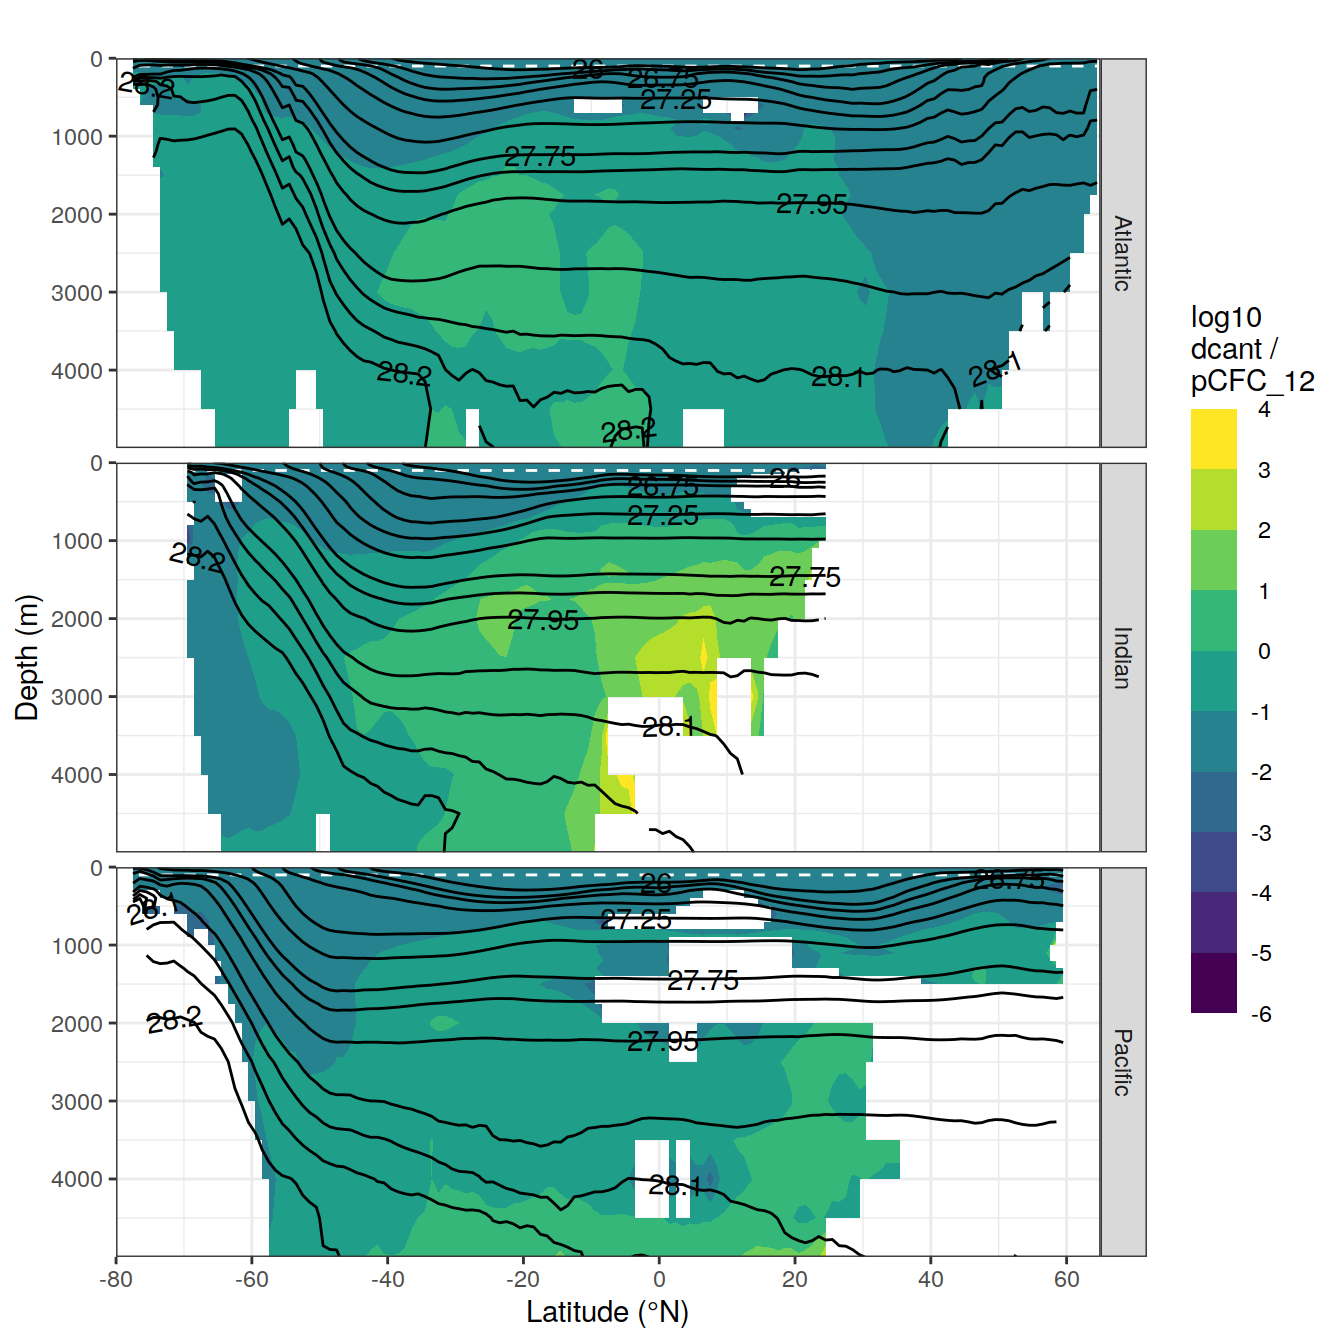
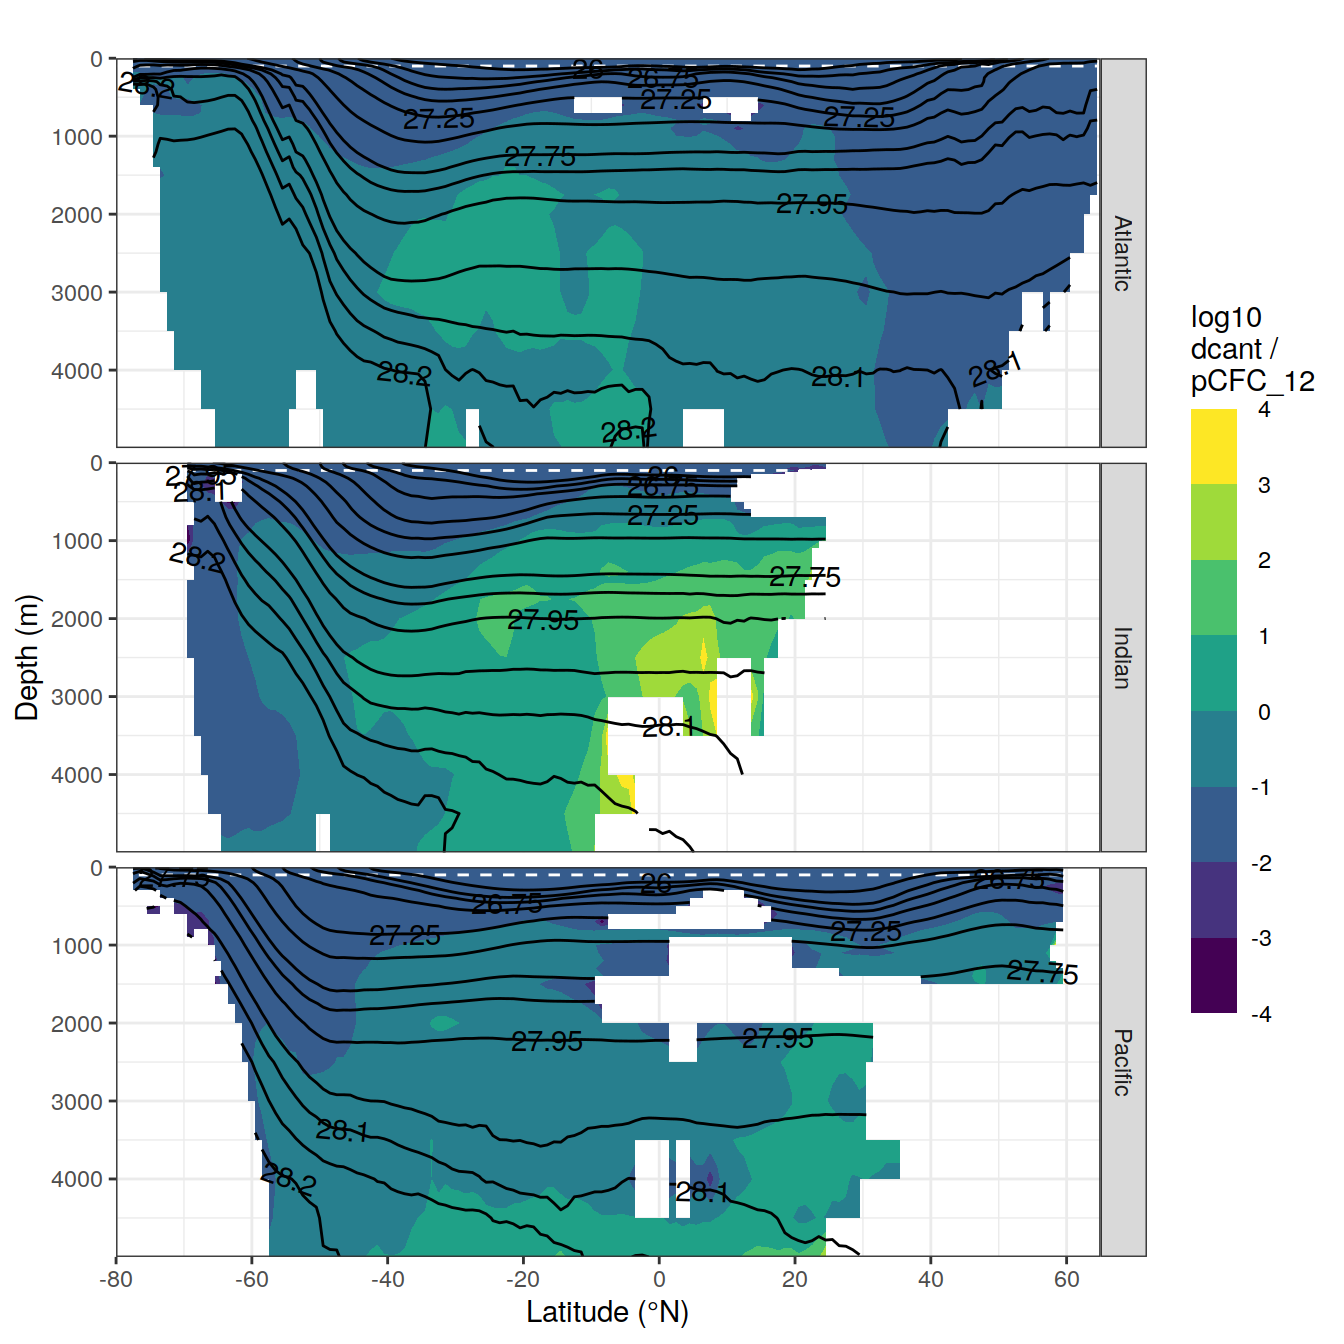
Build site.

diff --git a/docs/tracers_GLODAPv2_2021.html b/docs/tracers_GLODAPv2_2021.html
@@ -575,16 +575,16 @@ This reproducible <a href="http://rmarkdown.rstudio.com">R Markdown</a> analysis
 <div class="panel panel-default">
 <div class="panel-heading">
 <p class="panel-title">
-<a data-toggle="collapse" data-parent="#workflowr-checks" href="#strongRepositoryversionstrongahrefhttpsgithubcomjensdanielmuelleremlrobsvXXXtree13a030c8084cbb2364b390de2d68ff199bdc6b54targetblank13a030ca"> <span class="glyphicon glyphicon-ok text-success" aria-hidden="true"></span> <strong>Repository version:</strong> <a href="https://github.com/jens-daniel-mueller/emlr_obs_v_XXX/tree/13a030c8084cbb2364b390de2d68ff199bdc6b54" target="_blank">13a030c</a> </a>
+<a data-toggle="collapse" data-parent="#workflowr-checks" href="#strongRepositoryversionstrongahrefhttpsgithubcomjensdanielmuelleremlrobsvXXXtreef8016ab3b41a6f89543cc951fd9cb05f5c4dc0ectargetblankf8016aba"> <span class="glyphicon glyphicon-ok text-success" aria-hidden="true"></span> <strong>Repository version:</strong> <a href="https://github.com/jens-daniel-mueller/emlr_obs_v_XXX/tree/f8016ab3b41a6f89543cc951fd9cb05f5c4dc0ec" target="_blank">f8016ab</a> </a>
 </p>
 </div>
[2 lines of base64/hex data omitted]
 <div class="panel-body">
 <p>
 Great! You are using Git for version control. Tracking code development and connecting the code version to the results is critical for reproducibility.
 </p>
 <p>
-The results in this page were generated with repository version <a href="https://github.com/jens-daniel-mueller/emlr_obs_v_XXX/tree/13a030c8084cbb2364b390de2d68ff199bdc6b54" target="_blank">13a030c</a>. See the <em>Past versions</em> tab to see a history of the changes made to the R Markdown and HTML files.
+The results in this page were generated with repository version <a href="https://github.com/jens-daniel-mueller/emlr_obs_v_XXX/tree/f8016ab3b41a6f89543cc951fd9cb05f5c4dc0ec" target="_blank">f8016ab</a>. See the <em>Past versions</em> tab to see a history of the changes made to the R Markdown and HTML files.
 </p>
 <p>
 Note that you need to be careful to ensure that all relevant files for the analysis have been committed to Git prior to generating the results (you can use <code>wflow_publish</code> or <code>wflow_git_commit</code>). workflowr only checks the R Markdown file, but you know if there are other scripts or data files that it depends on. Below is the status of the Git repository when the results were generated:
@@ -631,6 +631,40 @@ Message
 </tr>
 </thead>
 <tbody>
+<tr>
+<td>
+Rmd
+</td>
+<td>
+<a href="https://github.com/jens-daniel-mueller/emlr_obs_v_XXX/blob/f8016ab3b41a6f89543cc951fd9cb05f5c4dc0ec/analysis/tracers_GLODAPv2_2021.Rmd" target="_blank">f8016ab</a>
+</td>
+<td>
+jens-daniel-mueller
+</td>
+<td>
+2021-11-12
+</td>
+<td>
+add zonal mean section of gridded dcant per CFC
+</td>
+</tr>
+<tr>
+<td>
+html
+</td>
+<td>
+<a href="https://rawcdn.githack.com/jens-daniel-mueller/emlr_obs_v_XXX/029c50af837eed95d99b546ced0d74eb7f98350e/docs/tracers_GLODAPv2_2021.html" target="_blank">029c50a</a>
+</td>
+<td>
+jens-daniel-mueller
+</td>
+<td>
+2021-11-12
+</td>
+<td>
+Build site.
+</td>
+</tr>
 <tr>
 <td>
 Rmd
@@ -6781,6 +6815,17 @@ Date
 <tbody>
 <tr>
 <td>
+<a href="https://github.com/jens-daniel-mueller/emlr_obs_v_XXX/blob/029c50af837eed95d99b546ced0d74eb7f98350e/docs/figure/tracers_GLODAPv2_2021.Rmd/zonal_mean_sections-1.png" target="_blank">029c50a</a>
+</td>
+<td>
+jens-daniel-mueller
+</td>
+<td>
+2021-11-12
+</td>
+</tr>
+<tr>
+<td>
 <a href="https://github.com/jens-daniel-mueller/emlr_obs_v_XXX/blob/20e7603fe7fda1ae4c4dbb0517a4584a976ac2bc/docs/figure/tracers_GLODAPv2_2021.Rmd/zonal_mean_sections-1.png" target="_blank">20e7603</a>
 </td>
 <td>
@@ -6827,6 +6872,17 @@ Date
 <tbody>
 <tr>
 <td>
+<a href="https://github.com/jens-daniel-mueller/emlr_obs_v_XXX/blob/029c50af837eed95d99b546ced0d74eb7f98350e/docs/figure/tracers_GLODAPv2_2021.Rmd/zonal_mean_sections-2.png" target="_blank">029c50a</a>
+</td>
+<td>
+jens-daniel-mueller
+</td>
+<td>
+2021-11-12
+</td>
+</tr>
+<tr>
+<td>
 <a href="https://github.com/jens-daniel-mueller/emlr_obs_v_XXX/blob/20e7603fe7fda1ae4c4dbb0517a4584a976ac2bc/docs/figure/tracers_GLODAPv2_2021.Rmd/zonal_mean_sections-2.png" target="_blank">20e7603</a>
 </td>
 <td>
@@ -6870,6 +6926,17 @@ Date
 <tbody>
 <tr>
 <td>
+<a href="https://github.com/jens-daniel-mueller/emlr_obs_v_XXX/blob/029c50af837eed95d99b546ced0d74eb7f98350e/docs/figure/tracers_GLODAPv2_2021.Rmd/zonal_mean_sections-3.png" target="_blank">029c50a</a>
+</td>
+<td>
+jens-daniel-mueller
+</td>
+<td>
+2021-11-12
+</td>
+</tr>
+<tr>
+<td>
 <a href="https://github.com/jens-daniel-mueller/emlr_obs_v_XXX/blob/20e7603fe7fda1ae4c4dbb0517a4584a976ac2bc/docs/figure/tracers_GLODAPv2_2021.Rmd/zonal_mean_sections-3.png" target="_blank">20e7603</a>
 </td>
 <td>
@@ -6884,6 +6951,7 @@ jens-daniel-mueller
 </div>
 </div>
 <pre class="r"><code>CFC_dcant_zonal %&gt;%
+  filter(dcant_per_CFC_log &gt; -4) %&gt;%
   p_section_zonal_continous_depth(
     var = &quot;dcant_per_CFC_log&quot;,
     breaks = NULL,
@@ -6916,7 +6984,77 @@ Date
 <tbody>
 <tr>
 <td>
+<a href="https://github.com/jens-daniel-mueller/emlr_obs_v_XXX/blob/029c50af837eed95d99b546ced0d74eb7f98350e/docs/figure/tracers_GLODAPv2_2021.Rmd/zonal_mean_sections-4.png" target="_blank">029c50a</a>
+</td>
+<td>
+jens-daniel-mueller
+</td>
+<td>
+2021-11-12
+</td>
+</tr>
+<tr>
+<td>
 <a href="https://github.com/jens-daniel-mueller/emlr_obs_v_XXX/blob/20e7603fe7fda1ae4c4dbb0517a4584a976ac2bc/docs/figure/tracers_GLODAPv2_2021.Rmd/zonal_mean_sections-4.png" target="_blank">20e7603</a>
+</td>
+<td>
+jens-daniel-mueller
+</td>
+<td>
+2021-11-12
+</td>
+</tr>
+</tbody>
+</table>
+</div>
+</div>
+<pre class="r"><code>CFC_dcant_zonal %&gt;%
+  p_section_zonal_continous_depth(
+    var = &quot;dcant_per_CFC_log&quot;,
+    breaks = NULL,
+    legend_title = &quot;log10\ndcant /\npCFC_12&quot;,
+    title_text = NULL
+  ) +
+  coord_cartesian(ylim = c(1000, 0),
+                  expand = 0) +
+  facet_grid(basin_AIP ~ .)</code></pre>
+<p><img src="figure/tracers_GLODAPv2_2021.Rmd/zonal_mean_sections-5.png" width="672" style="display: block; margin: auto;" /></p>
+<p>
+<button type="button" class="btn btn-default btn-xs btn-workflowr btn-workflowr-fig" data-toggle="collapse" data-target="#fig-zonal_mean_sections-5">
+Past versions of zonal_mean_sections-5.png
+</button>
+</p>
+<div id="fig-zonal_mean_sections-5" class="collapse">
+<div class="table-responsive">
+<table class="table table-condensed table-hover">
+<thead>
+<tr>
+<th>
+Version
+</th>
+<th>
+Author
+</th>
+<th>
+Date
+</th>
+</tr>
+</thead>
+<tbody>
+<tr>
+<td>
+<a href="https://github.com/jens-daniel-mueller/emlr_obs_v_XXX/blob/029c50af837eed95d99b546ced0d74eb7f98350e/docs/figure/tracers_GLODAPv2_2021.Rmd/zonal_mean_sections-5.png" target="_blank">029c50a</a>
+</td>
+<td>
+jens-daniel-mueller
+</td>
+<td>
+2021-11-12
+</td>
+</tr>
+<tr>
+<td>
+<a href="https://github.com/jens-daniel-mueller/emlr_obs_v_XXX/blob/20e7603fe7fda1ae4c4dbb0517a4584a976ac2bc/docs/figure/tracers_GLODAPv2_2021.Rmd/zonal_mean_sections-5.png" target="_blank">20e7603</a>
 </td>
 <td>
 jens-daniel-mueller
